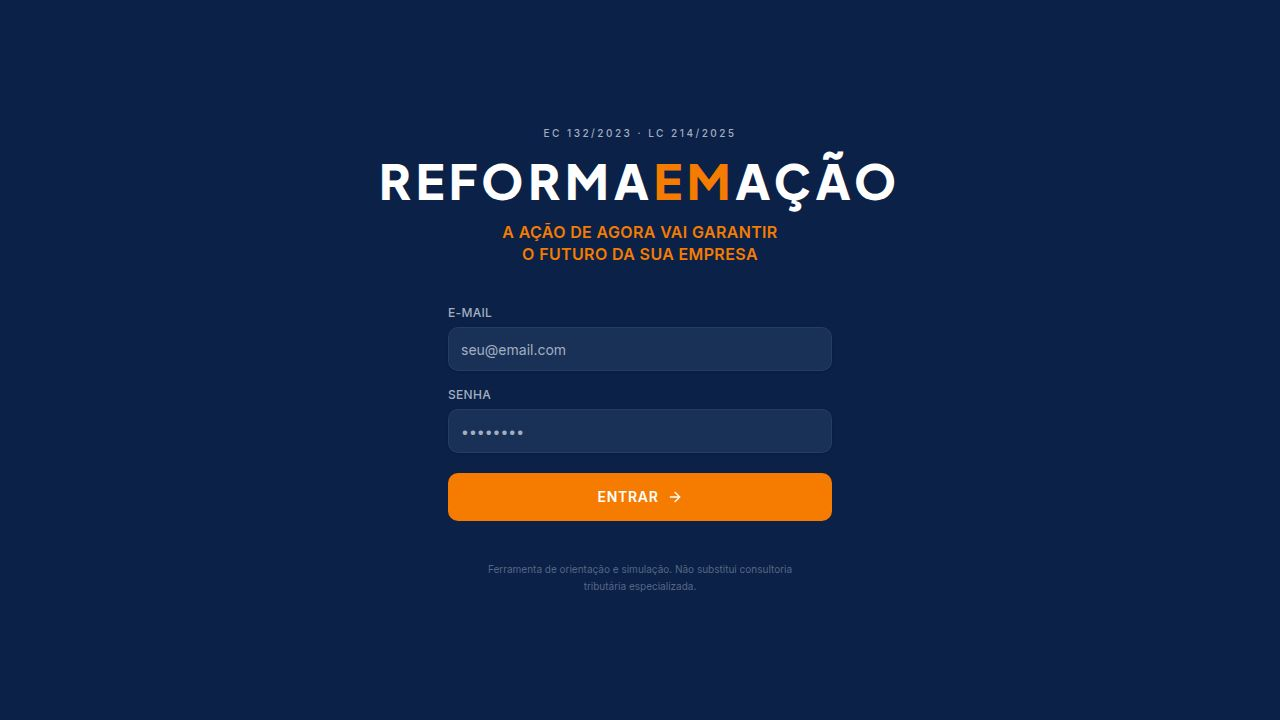
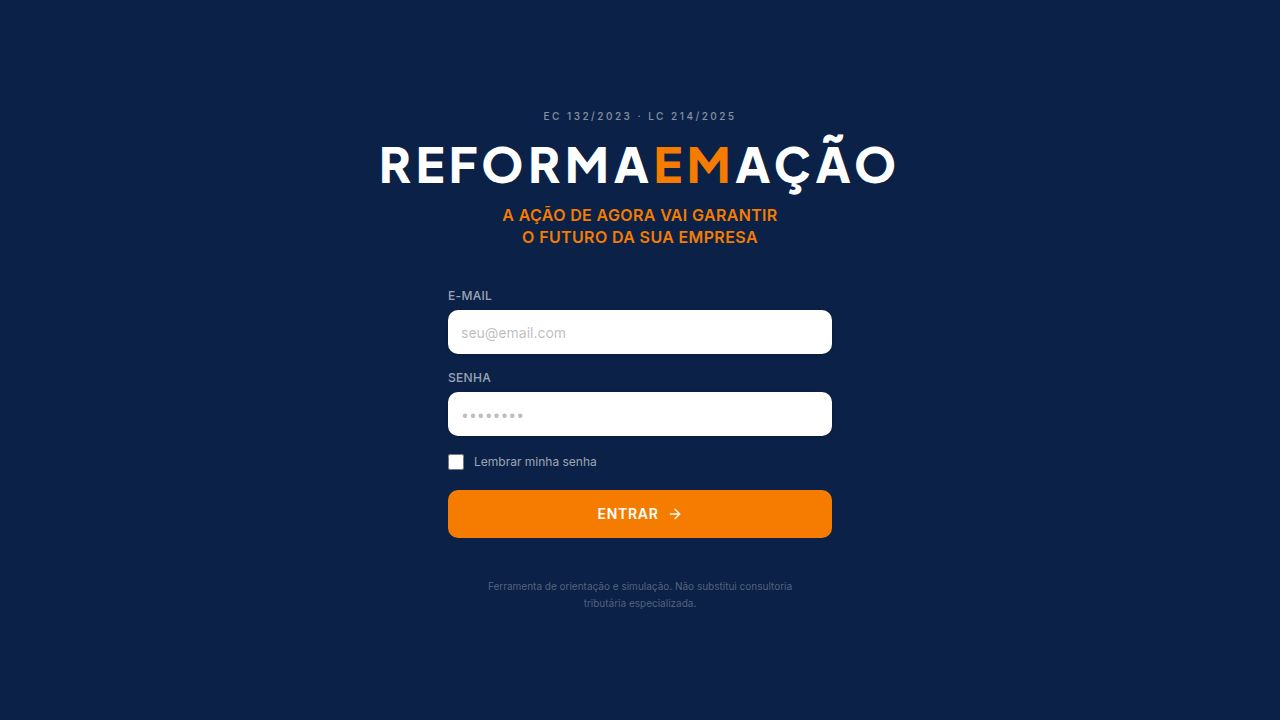
Improve login security by only remembering user email
Update the login page to only store the user's email address in local storage when the "remember me" option is selected, enhancing security by not persisting passwords.

Replit-Commit-Author: Agent
Replit-Commit-Session-Id: 5383b47c-9c6a-4d67-873b-61e5614a0c33
Replit-Commit-Checkpoint-Type: full_checkpoint
Replit-Commit-Event-Id: eed1b8ad-d975-4984-acd3-bfca6c427c8d
Replit-Commit-Screenshot-Url: https://storage.googleapis.com/screenshot-production-us-central1/db2d43fd-bacb-4ad2-a4f2-7593c90496de/5383b47c-9c6a-4d67-873b-61e5614a0c33/rsXglWz
Replit-Helium-Checkpoint-Created: true

Changed region(s): [[0.3438, 0.3972, 0.6562, 0.8556], [0.2812, 0.1528, 0.7188, 0.3667]]

diff --git a/client/src/pages/Login.tsx b/client/src/pages/Login.tsx
@@ -19,9 +19,8 @@ export default function Login() {
     try {
       const saved = localStorage.getItem(STORAGE_KEY);
       if (saved) {
-        const { email: savedEmail, password: savedPassword } = JSON.parse(saved);
+        const { email: savedEmail } = JSON.parse(saved);
         if (savedEmail) setEmail(savedEmail);
-        if (savedPassword) setPassword(savedPassword);
         setRemember(true);
       }
     } catch {
@@ -35,7 +34,7 @@ export default function Login() {
     setLoading(true);
     try {
       if (remember) {
-        localStorage.setItem(STORAGE_KEY, JSON.stringify({ email, password }));
+        localStorage.setItem(STORAGE_KEY, JSON.stringify({ email }));
       } else {
         localStorage.removeItem(STORAGE_KEY);
       }
@@ -112,7 +111,7 @@ export default function Login() {
               data-testid="checkbox-remember-me"
               className="w-4 h-4 rounded border-white/30 bg-white/10 accent-[#F57C00] cursor-pointer"
             />
-            <span className="text-xs text-white/60">Lembrar minha senha</span>
+            <span className="text-xs text-white/60">Lembrar meu e-mail</span>
           </label>
 
           <button
